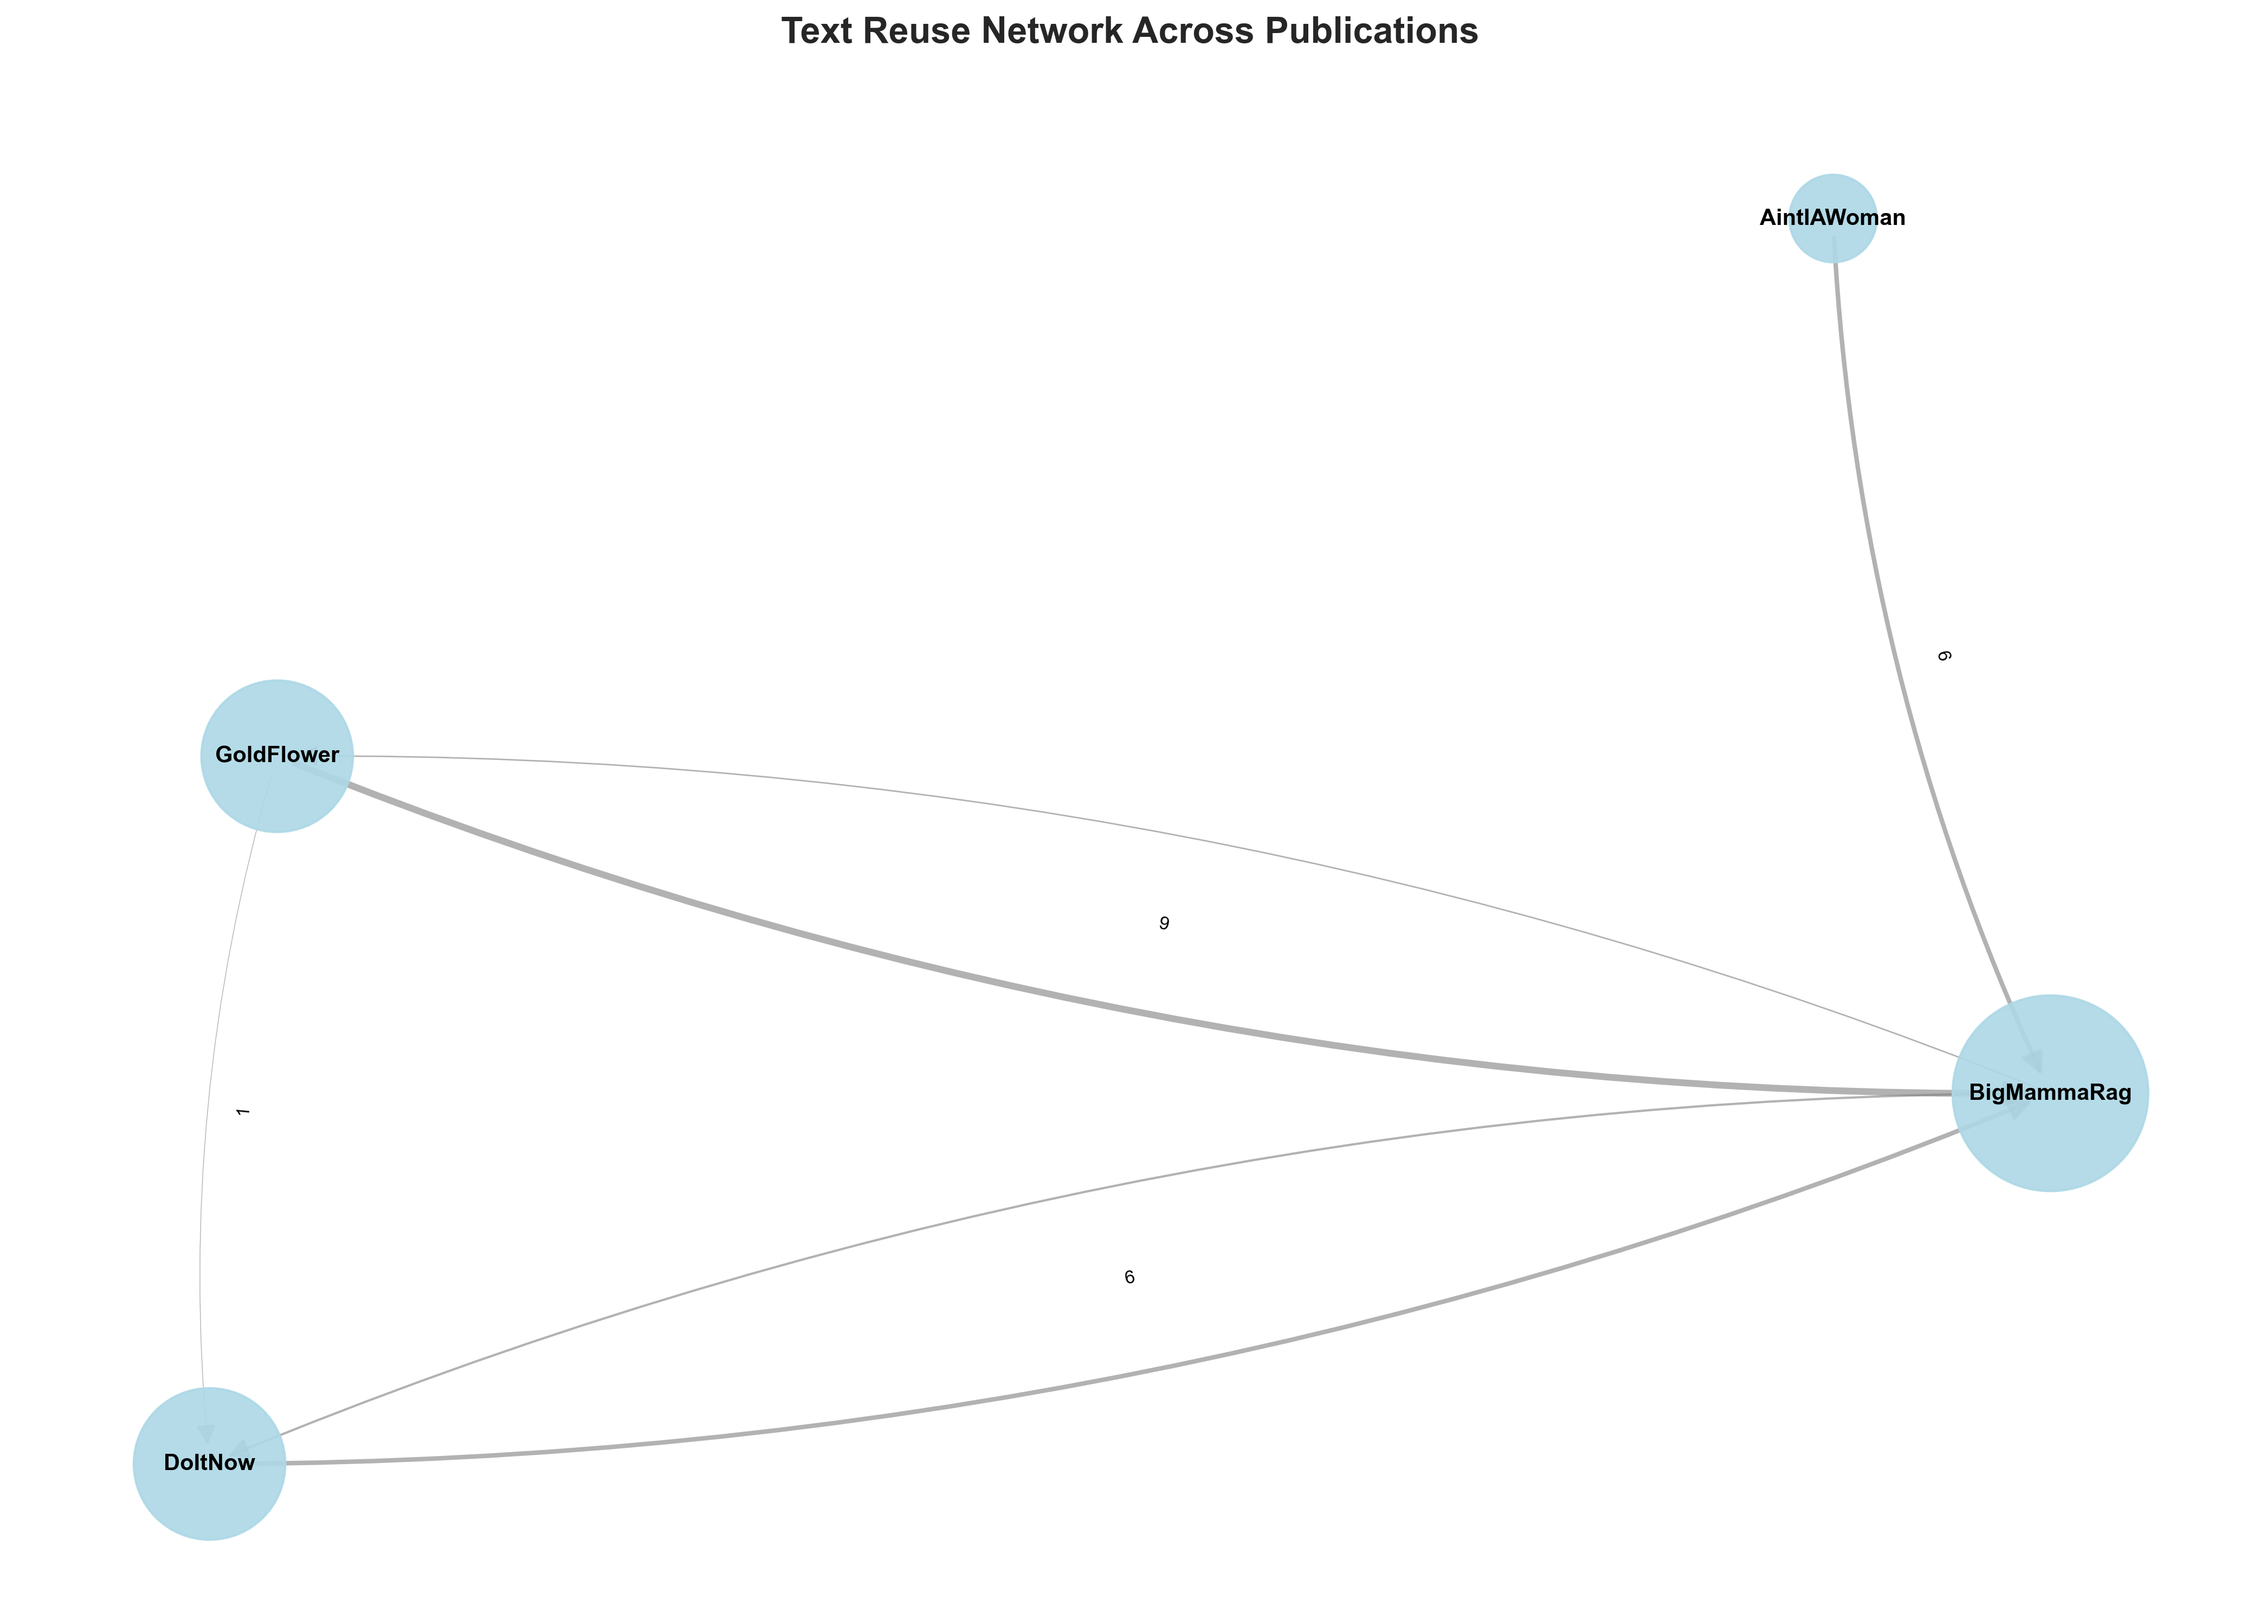
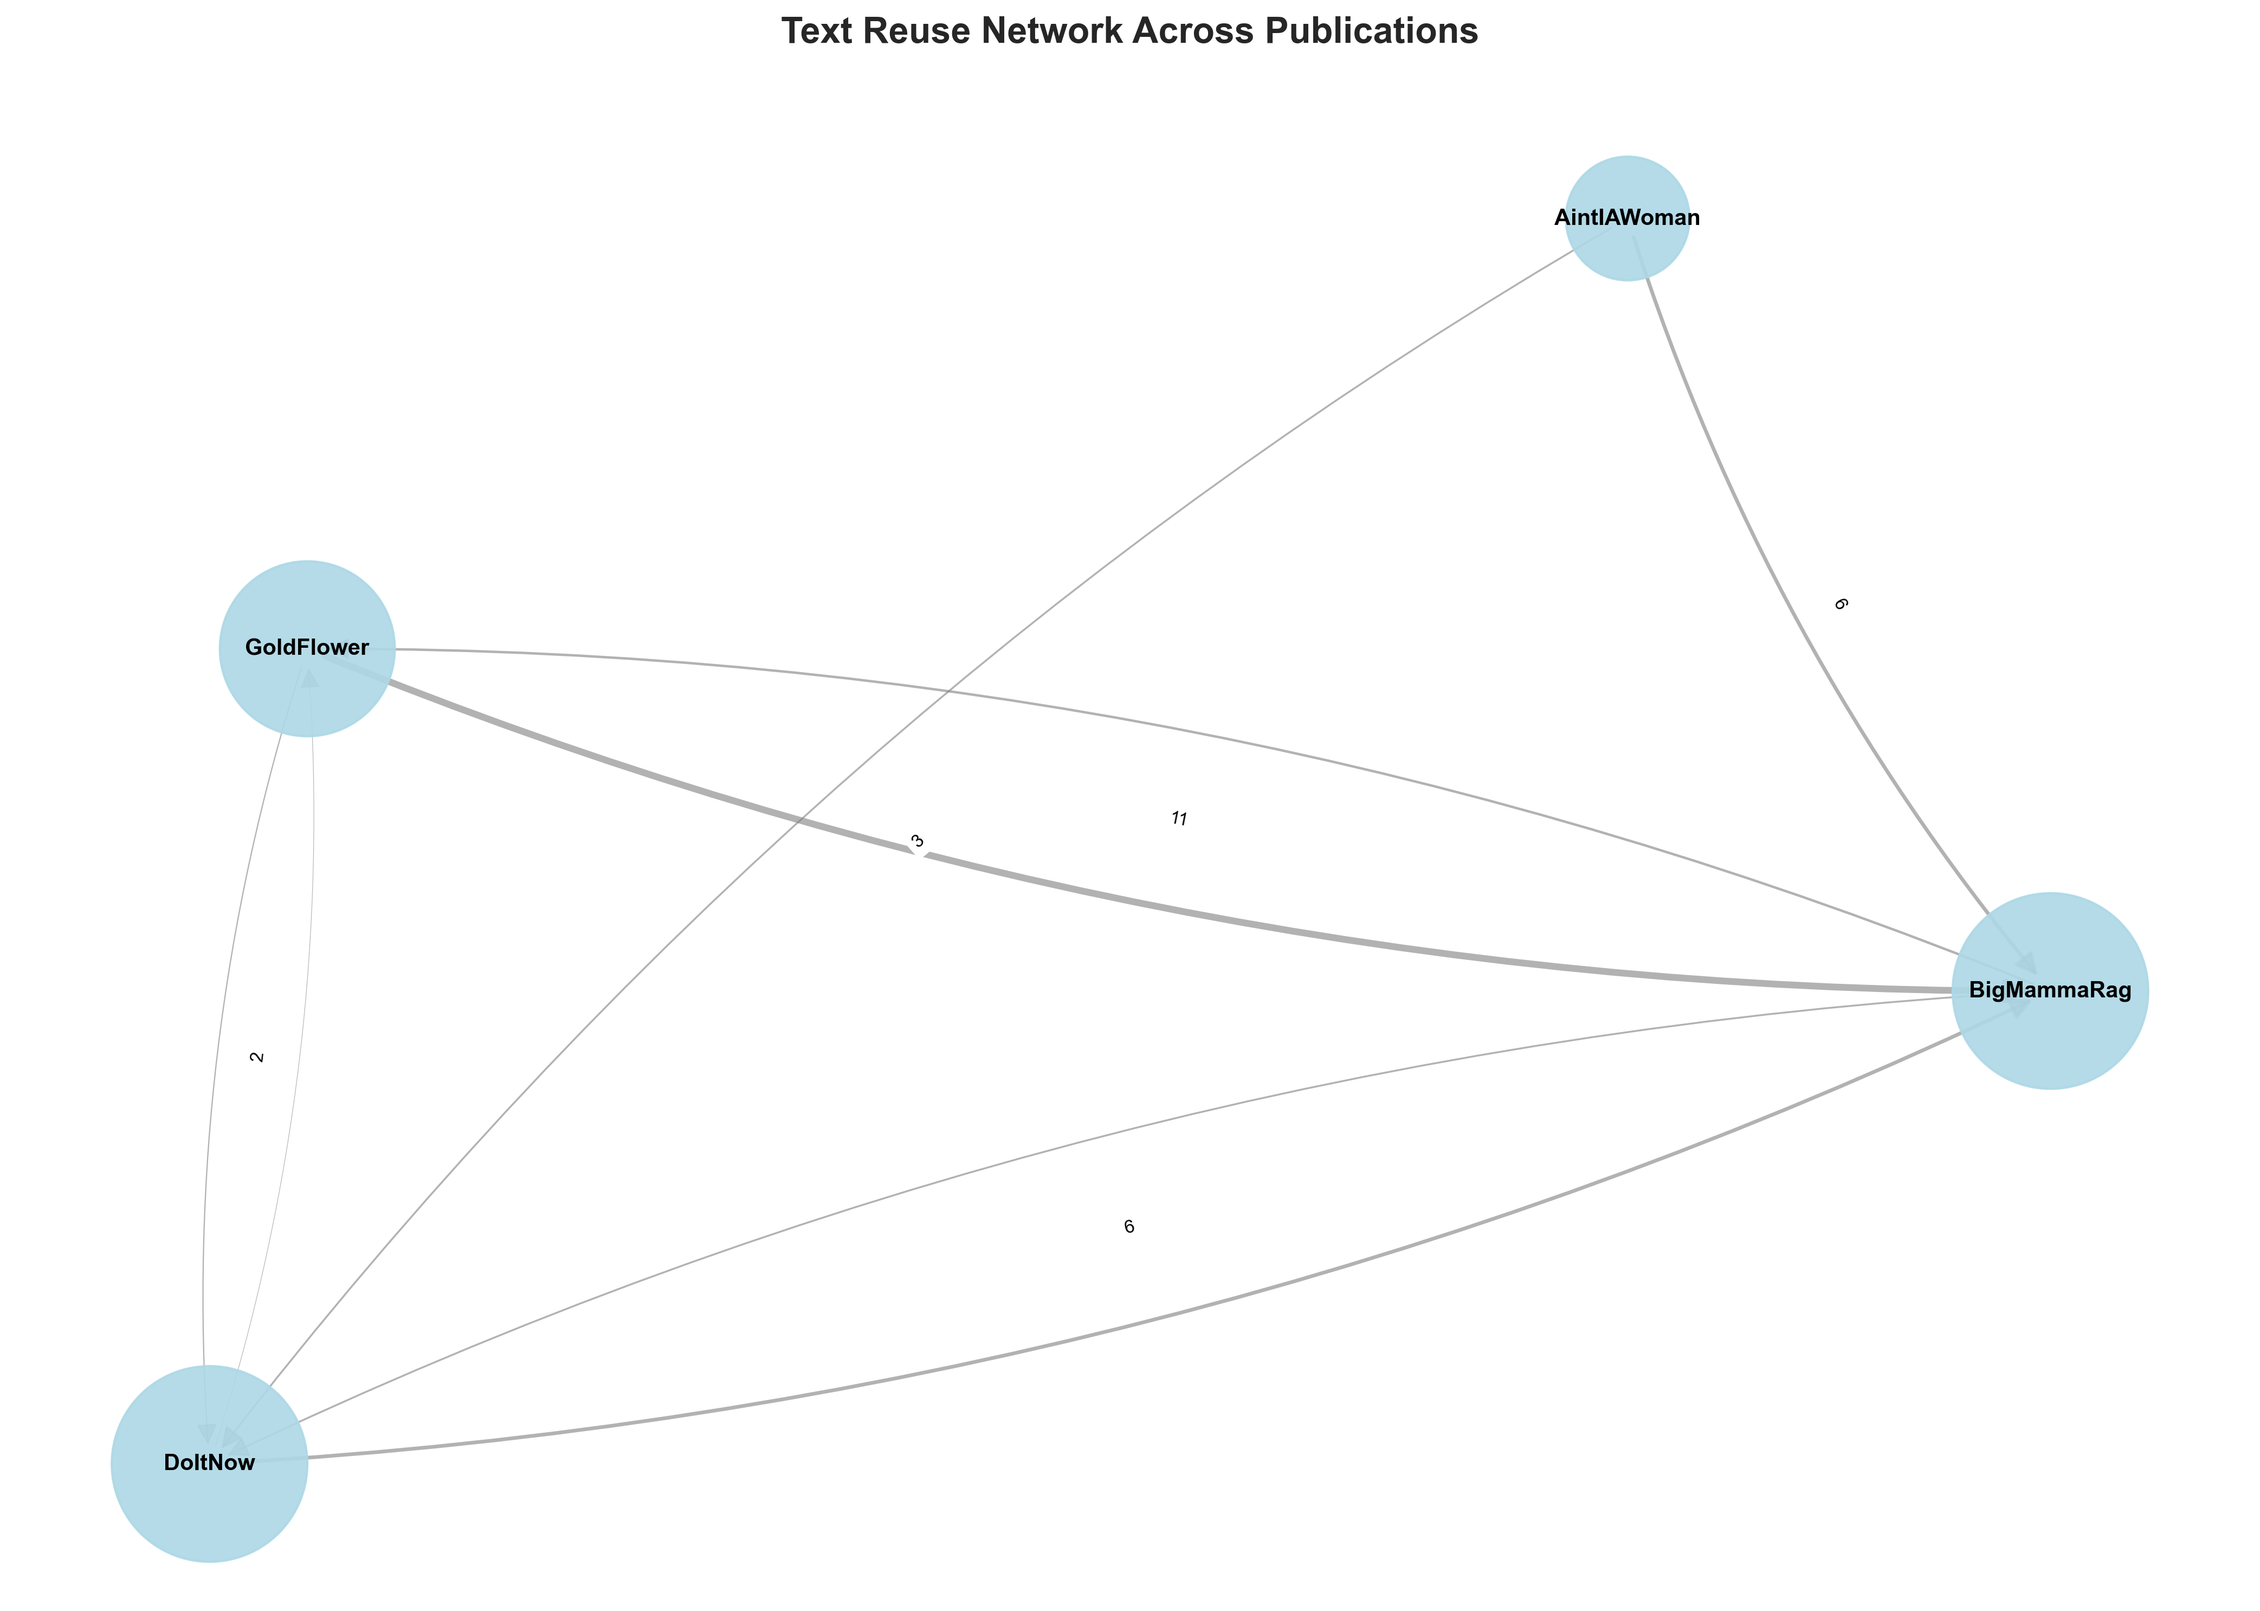
re-ran visualizations with updated results - more instances but technically the same instances as before

diff --git a/visualize_textreuse.py b/visualize_textreuse.py
@@ -10,7 +10,7 @@ import os
 plt.style.use('seaborn-v0_8-darkgrid')
 sns.set_palette("husl")
 
-def load_reuse_data(filepath='text_reuse_results.csv'):
+def load_reuse_data(filepath='reuse_results/text_reuse_filtered.csv'):
     """Load reuse data (citations already filtered in preprocessing)"""
     df = pd.read_csv(filepath)
     
